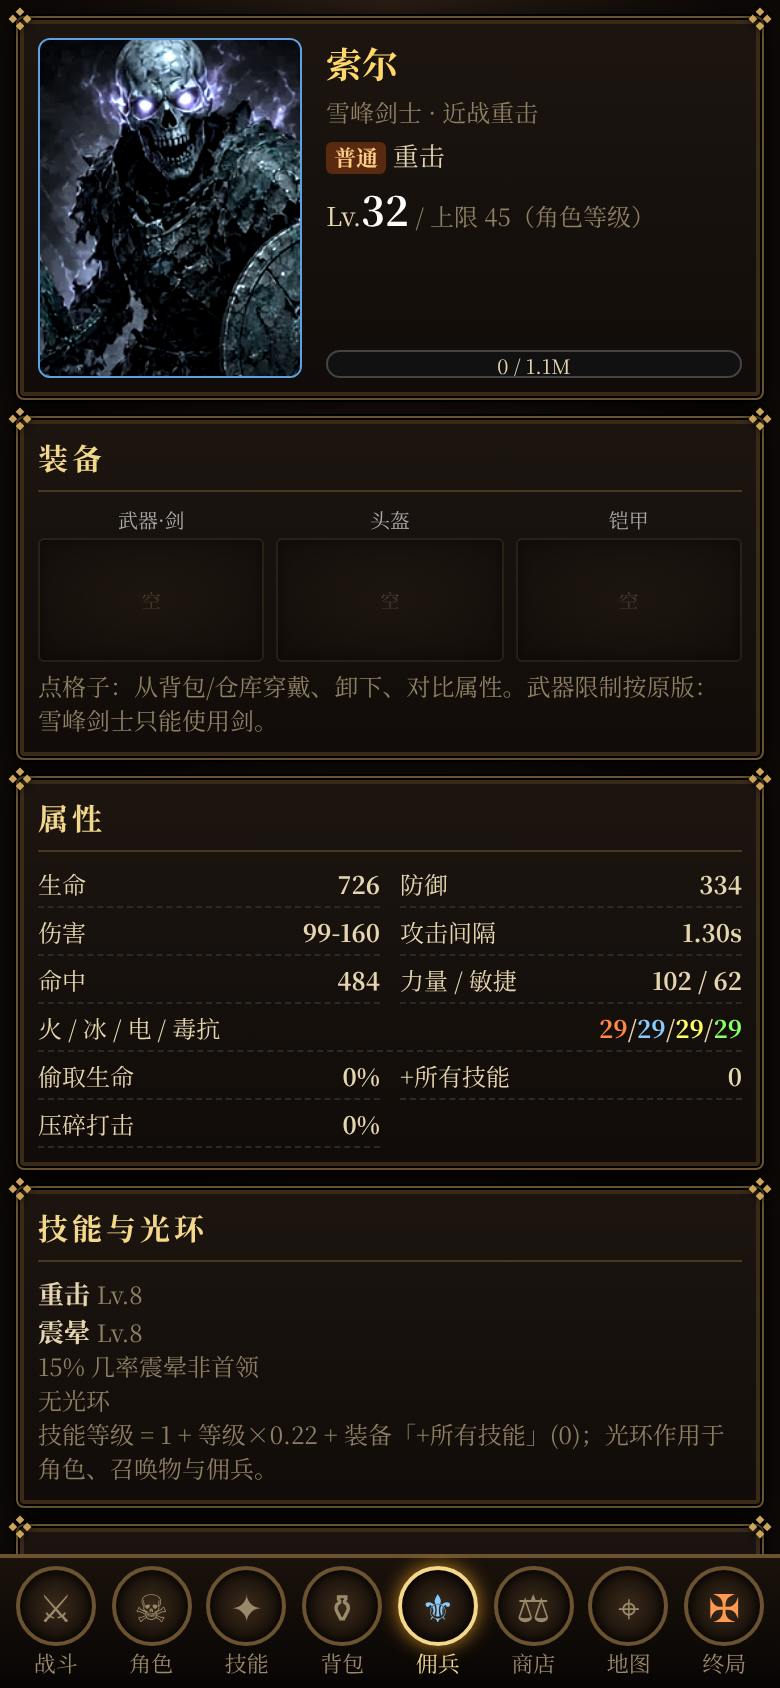
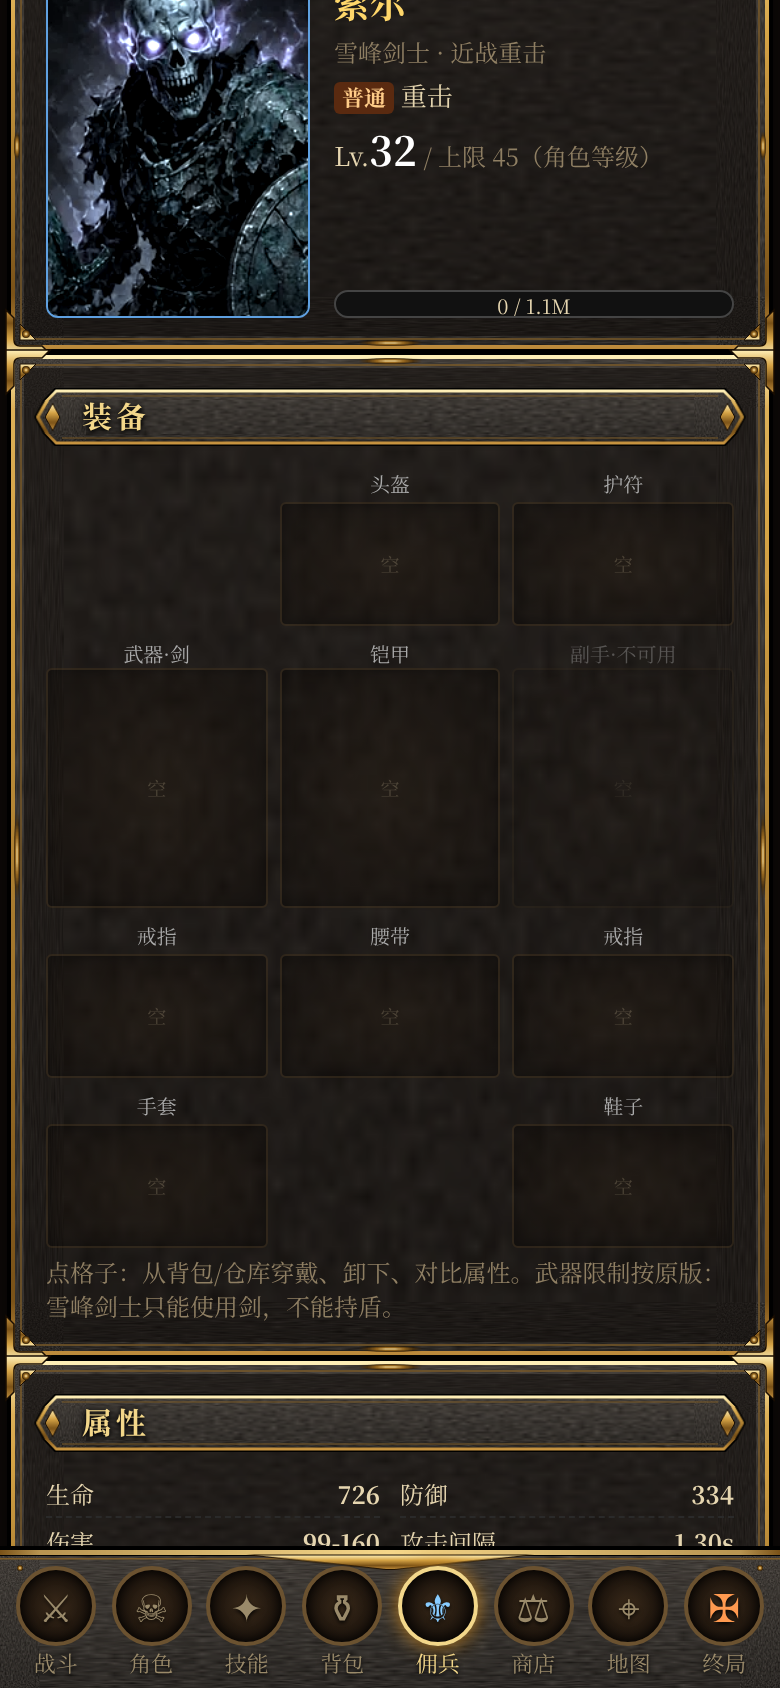
group+merc2: 战斗同种召唤物/怪物小兵合并头像(×N角标、组总血量、特效飘字跟随)；佣兵全身纸娃娃10格(副手按类型限制/戒指双格/套装/盾牌符文之语光环/自动换装/v1存档迁移)

diff --git a/merc.js b/merc.js
@@ -5,8 +5,11 @@
 // 存档：全部字段在 S.merc 下：{_v,t,v,nm,lvl,xp,hd,eq:{weapon,helm,armor},dead,off,auto,ar,prev,hires}
 //   off=1 表示已解雇（S.merc 保持非 null，避免 acts.js migrate 自动重新赠送）；prev=上一位被解雇佣兵(可召回)。
 // ===================================================================================
-const MERC_V=1,MX={slot:null,auT:0,conv:0,auras:[],flt:'all'};
-const MERC_SLOTS=['weapon','helm','armor'];
+const MERC_V=2,MX={slot:null,auT:0,conv:0,auras:[],flt:'all'};
+const MERC_SLOTS=['weapon','shield','helm','armor','gloves','belt','boots','amulet','ring1','ring2'];
+// 副手：原版仅铁狼(单手剑+盾)可持盾；弓/长柄/矛为双手，剑士不持盾。缩颅(head)为角色职业物品，不可用
+const MERC_SHIELD={mage:1};
+const mslotBase=k=>k==='ring1'||k==='ring2'?'ring':k;
 // 原版武器类型限制：罗格=弓；沙漠卫兵=长柄/矛；铁狼=单手剑(+盾，本游戏佣兵无副手)；野蛮人=剑
 const MERC_WCATS={archer:['bow'],guard:['polearm','spear'],mage:['sword'],barb:['sword']};
 // 原版 1.10 雇佣等级（按营地章节 × 难度）；实际等级不超过角色
@@ -59,7 +62,9 @@ function mercNorm(){if(typeof S==='undefined'||!S)return;const m=S.merc;if(!m||m
  if(!mercVarDef(m.t,m.v)||!mercVars(m.t,m.hd)[m.v]){const vs=mercVars(m.t,m.hd);m.v=vs[m.v]?m.v:(vs[MERCS[m.t].vd]?MERCS[m.t].vd:Object.keys(vs)[0])}
  m._v=MERC_V;for(const k of MERC_SLOTS){const it=m.eq[k];if(it&&!mercFits(it,k,m.t)){S.bag.push(it);delete m.eq[k];log&&log(`佣兵无法使用 ${itemName(it)}（类型限制），已放回背包`)}}
  for(const k in m.eq)if(!MERC_SLOTS.includes(k))delete m.eq[k]}
-function mercFits(it,k,t){if(!it||it.k)return false;const b=BASEM[it.b];if(!b||b.s!==k)return false;if(k==='weapon')return(MERC_WCATS[t]||[]).includes(b.cat);return true}
+function mercFits(it,k,t,eq){if(!it||it.k)return false;const b=BASEM[it.b];if(!b||b.s!==mslotBase(k))return false;if(k==='weapon')return(MERC_WCATS[t]||[]).includes(b.cat)&&!(b.th&&!MERC_WCATS[t].includes('sword')&&false);
+ if(k==='shield'){if(!MERC_SHIELD[t]||b.cat!=='shield')return false;const w=(eq||(S.merc&&S.merc.eq)||{}).weapon;return!(w&&BASEM[w.b]&&BASEM[w.b].th)}return true}
+function mercSlotFor(it,pref){const b=BASEM[it.b];if(b.s!=='ring')return b.s;if(pref==='ring1'||pref==='ring2')return pref;const e=S.merc.eq;return!e.ring1?'ring1':!e.ring2?'ring2':(power(e.ring1)<=power(e.ring2)?'ring1':'ring2')}
 const _mx_load=load;load=function(){_mx_load();mercNorm()};
 
 // ---------- 属性 ----------
@@ -121,14 +126,19 @@ const _mx_kill=killMon;killMon=function(m){const r=_mx_kill(m);if(mercUp()&&!S.m
 const _mx_gx=gainXp;gainXp=function(x){const l0=S.lvl;_mx_gx(x);if(S.lvl>l0&&mercUp())mercGainXp(0.0001)};
 
 // ---------- 装备 ----------
-canMercEquip=function(it){if(!mercUp()||!it||it.k)return false;const b=BASEM[it.b];if(!b||!MERC_SLOTS.includes(b.s)||!mercFits(it,b.s,S.merc.t))return false;const r=itemReq(it),ms=mercStats();return ms.L>=r.lv&&ms.str>=r.str&&ms.dex>=r.dex};
-function mercWhyNot(it){const b=BASEM[it.b];if(!mercFits(it,b.s,S.merc.t))return'类型不符';const r=itemReq(it),ms=mercStats();const w=[];if(ms.L<r.lv)w.push('需等级'+r.lv);if(ms.str<r.str)w.push('需力量'+r.str);if(ms.dex<r.dex)w.push('需敏捷'+r.dex);return w.join(' ')}
-mercEquip=function(uid){let f=findItem(uid);if(!f||f.slot||!canMercEquip(f.it))return false;const k=BASEM[f.it.b].s,cur=S.merc.eq[k];
+canMercEquip=function(it,k){if(!mercUp()||!it||it.k)return false;const b=BASEM[it.b];if(!b)return false;k=k||mercSlotFor(it);if(!MERC_SLOTS.includes(k)||!mercFits(it,k,S.merc.t))return false;const r=itemReq(it),ms=mercStats();return ms.L>=r.lv&&ms.str>=r.str&&ms.dex>=r.dex};
+function mercWhyNot(it,k){if(!mercFits(it,k||mercSlotFor(it),S.merc.t))return BASEM[it.b].s==='shield'?'双手武器/类型不能持盾':'类型不符';const r=itemReq(it),ms=mercStats();const w=[];if(ms.L<r.lv)w.push('需等级'+r.lv);if(ms.str<r.str)w.push('需力量'+r.str);if(ms.dex<r.dex)w.push('需敏捷'+r.dex);return w.join(' ')}
+mercEquip=function(uid,slot){let f=findItem(uid);if(!f||f.slot)return false;const k=mercSlotFor(f.it,slot||MX.slot);if(!canMercEquip(f.it,k))return false;const cur=S.merc.eq[k];
  const obj=f.it;if(f.stash){if(typeof withdrawUid!=='function'||withdrawUid(uid,1)===false)return false}
- const bi=S.bag.indexOf(obj);if(bi<0)return false;const it=S.bag.splice(bi,1)[0];if(cur)S.bag.push(cur);S.merc.eq[k]=it;calc();log(`佣兵装备：<span style="color:${itemColor(it)}">${itemName(it)}</span>`);if(!window.__NOUI){closeM();render()}return true};
+ const bi=S.bag.indexOf(obj);if(bi<0)return false;const it=S.bag.splice(bi,1)[0];if(cur)S.bag.push(cur);S.merc.eq[k]=it;
+ if(k==='weapon'&&BASEM[it.b].th&&S.merc.eq.shield){S.bag.push(S.merc.eq.shield);delete S.merc.eq.shield}
+ calc();log(`佣兵装备：<span style="color:${itemColor(it)}">${itemName(it)}</span>`);if(!window.__NOUI){closeM();render()}return true};
 mercUnequip=function(k){if(!S.merc||!S.merc.eq[k])return false;if(bagFull()){toast('背包已满');return false}S.bag.push(S.merc.eq[k]);delete S.merc.eq[k];calc();if(!window.__NOUI){closeM();render()}return true};
-mercAutoEq=function(){if(!mercUp()||!S.autoEq||!S.merc.auto)return;for(const it of S.bag.slice()){if(it.k||!canMercEquip(it))continue;const k=BASEM[it.b].s,c=S.merc.eq[k];
- if(!c||power(it)>power(c)){S.bag.splice(S.bag.indexOf(it),1);if(c)S.bag.push(c);S.merc.eq[k]=it;calc();log(`佣兵换装：<span style="color:${itemColor(it)}">${itemName(it)}</span>`)}}};
+mercAutoEq=function(){if(!mercUp()||!S.autoEq||!S.merc.auto)return;for(const it of S.bag.slice()){if(it.k)continue;const b=BASEM[it.b];if(!b)continue;
+ const ks=b.s==='ring'?['ring1','ring2']:[b.s];for(const k of ks){if(!canMercEquip(it,k))continue;const c=S.merc.eq[k];
+  if(!c||power(it)>power(c)){S.bag.splice(S.bag.indexOf(it),1);if(c)S.bag.push(c);S.merc.eq[k]=it;calc();log(`佣兵换装：<span style="color:${itemColor(it)}">${itemName(it)}</span>`);break}}}};
+// items2.js 的命中特效(压碎/撕裂/偷取等)只统计了 3 格，扩展到全身
+if(typeof attackerMods==='function'){const _mx_am=attackerMods;attackerMods=function(src){if(src&&src.kind==='merc'&&S.merc&&S.merc.eq){const M={};for(const k of MERC_SLOTS){const it=S.merc.eq[k];if(!it)continue;const m=allMods(it);for(const x in m)if(typeof m[x]==='number')M[x]=(M[x]||0)+m[x]}return M}return _mx_am(src)}}
 
 // ---------- 战斗 ----------
 const ELC={fire:'#f84',cold:'#8cf',light:'#ff6',pois:'#8f6'};
@@ -166,8 +176,8 @@ function renderMercPage(){mercNorm();const P=$('#panel');const m=S.merc;let h='<
  if(mercUp()){const ms=mercStats(),T=MERCS[m.t],V=mercVarDef(m.t,m.v),need0=mercXpNeed(m.lvl),need1=mercXpNeed(m.lvl+1);const pct=m.lvl>=S.lvl?100:Math.max(0,Math.min(100,(m.xp-need0)/Math.max(1,need1-need0)*100));
   h+=`<div class="gp mhead">${mercPortrait(m.t,m.v,1)}<div class="minfo"><div class="mname">${m.nm}${m.dead?' <span class="bad">阵亡</span>':''}</div><div class="dim">${T.n} · ${T.kind}</div><div class="mver"><b class="diff d${m.hd}">${DIFFS[m.hd].n}</b> ${V.n}</div>
    <div class="mlv">Lv.<b>${m.lvl}</b> <small class="dim">/ 上限 ${S.lvl}（角色等级）</small></div><div class="mxp"><i style="width:${pct.toFixed(1)}%"></i><span>${m.lvl>=S.lvl?'已达角色等级':fmt(m.xp-need0)+' / '+fmt(need1-need0)}</span></div></div></div>`;
-  h+=`<div class="gp"><h3>装备</h3><div class="mdoll">${MERC_SLOTS.map(k=>{const it=m.eq[k];return`<div class="mslot" onclick="mercSlotUI('${k}')"><small>${SLOTN[k]}${k==='weapon'?'·'+MERC_WCATS[m.t].map(c=>CATN?CATN[c]:c).join('/'):''}</small>${it?cell(it,''):`<div class="cell empty"><small>空</small></div>`}</div>`}).join('')}</div>
-   ${Object.keys(ms.sets).length?`<div class="dim">套装：${Object.entries(ms.sets).map(([s,n])=>SETS[s].n+' '+n+'件').join('、')}</div>`:''}<div class="dim">点格子：从背包/仓库穿戴、卸下、对比属性。武器限制按原版：${T.n}只能使用${MERC_WCATS[m.t].map(c=>CATN[c]).join('/')}。</div></div>`;
+  h+=`<div class="gp"><h3>装备</h3><div class="mdoll">${MERC_SLOTS.map(k=>{const it=m.eq[k];return`<div class="mslot ms_${k} ${k==='shield'&&!MERC_SHIELD[m.t]?'lock':''}" onclick="mercSlotUI('${k}')"><small>${SLOTN[k]}${k==='shield'&&!MERC_SHIELD[m.t]?'·不可用':''}${k==='weapon'?'·'+MERC_WCATS[m.t].map(c=>CATN?CATN[c]:c).join('/'):''}</small>${it?cell(it,''):`<div class="cell empty"><small>空</small></div>`}</div>`}).join('')}</div>
+   ${Object.keys(ms.sets).length?`<div class="dim">套装：${Object.entries(ms.sets).map(([s,n])=>SETS[s].n+' '+n+'件').join('、')}</div>`:''}<div class="dim">点格子：从背包/仓库穿戴、卸下、对比属性。武器限制按原版：${T.n}只能使用${MERC_WCATS[m.t].map(c=>CATN[c]).join('/')}${MERC_SHIELD[m.t]?'，可持盾(双手武器时不可)':'，不能持盾'}。</div></div>`;
   h+=`<div class="gp"><h3>属性</h3><div class="mstats">${mercStatsHTML(ms)}</div></div>`;
   h+=`<div class="gp"><h3>技能与光环</h3>${V.sk.map(s=>`<div class="msk"><b>${s}</b> <span class="dim">Lv.${ms.skl}</span></div>`).join('')}${V.d?`<div class="dim">${V.d}</div>`:''}
    ${ms.auras.length?ms.auras.map(a=>`<div class="maura"><b>✺ ${AURAS[a.id].n}</b> Lv.${a.lv} <small class="dim">来源：${a.src}</small><div>${AURAS[a.id].t(a.e)}</div></div>`).join(''):'<div class="dim">无光环</div>'}
@@ -179,7 +189,7 @@ function renderMercPage(){mercNorm();const P=$('#panel');const m=S.merc;let h='<
   const p=m&&m.off&&m.prev;if(p)h+=`<div class="mhire"><span>↺ 召回 <b>${p.nm}</b> ${MERCS[p.t].n}·${mercVarDef(p.t,p.v).n} Lv.${Math.min(p.lvl,S.lvl)}</span><button class="btn xs gold" onclick="mercRecall()">${fmt(mercHireCost(Math.min(p.lvl,S.lvl)))}◈</button></div>`;
   for(const t of mercAvail()){const T=MERCS[t],L=mercHireLv(t);h+=`<div class="mhire"><span>${T.ic} ${T.n} <span class="dim">Lv.${L} · ${ACTS[T.act].camp}</span></span><span class="btns">${Object.entries(mercVars(t,S.diff)).map(([v,V])=>`<button class="btn xs" onclick="hireMerc('${t}','${v}')">${V.n} ${fmt(mercHireCost(L))}◈</button>`).join('')}</span></div>`}h+='</div>'}
  P.innerHTML=h+'</div>'}
-function mercCands(k){const out=[];const add=(it,src)=>{if(!it||it.k)return;const b=BASEM[it.b];if(b&&b.s===k&&mercFits(it,k,S.merc.t))out.push({it,src})};
+function mercCands(k){const out=[];const add=(it,src)=>{if(!it||it.k)return;const b=BASEM[it.b];if(b&&b.s===mslotBase(k)&&(mercFits(it,k,S.merc.t)||(k==='shield'&&MERC_SHIELD[S.merc.t]&&b.cat==='shield')))out.push({it,src})};
  for(const it of S.bag)add(it,'背包');if(S.pst)S.pst.forEach((pg,i)=>pg.forEach(it=>add(it,'仓库'+(i+1))));if(typeof ACCT!=='undefined'&&ACCT&&ACCT.shared)ACCT.shared.forEach((pg,i)=>pg.forEach(it=>add(it,'共享'+(i+1))));for(const it of S.stash||[])add(it,'仓库');return out.sort((a,b)=>power(b.it)-power(a.it))}
 function mercDelta(k,it){const a=mercStats(),eq=Object.assign({},S.merc.eq);if(it)eq[k]=it;else delete eq[k];const b=mercStats(eq);
  const f=(n,x,y,u='')=>{const d=Math.round(y-x);return d?`<span class="${d>0?'g':'bad'}">${n}${d>0?'+':''}${d}${u}</span>`:''};
@@ -188,7 +198,7 @@ function mercDelta(k,it){const a=mercStats(),eq=Object.assign({},S.merc.eq);if(i
 function mercSlotUI(k){if(!mercUp())return;MX.slot=k;const cur=S.merc.eq[k],cs=mercCands(k);
  const desc=it=>`${it.rw!=null?`<div class="g">符文之语「${RUNEWORDS[it.rw].n}」${RW_AURA[RUNEWORDS[it.rw].n]?' · 光环 '+AURAS[RW_AURA[RUNEWORDS[it.rw].n][0]].n:''}</div>`:''}<div class="dim small">${modsTxt(allMods(it))}</div>`;
  modal(`<div class="mtitle">佣兵 · ${SLOTN[k]}</div><div class="gp mslotm">${cur?`<div class="mcur">${cell(cur,`showItem(${cur.uid})`)}<div><b style="color:${itemColor(cur)}">${itemName(cur)}</b>${desc(cur)}<div>${mercDelta(k,null)}</div><button class="btn sm" onclick="mercUnequip('${k}')">卸下到背包</button></div></div>`:'<div class="dim">未装备</div>'}
- <h4>可用物品（${cs.length}）</h4>${cs.length?cs.map(({it,src})=>{const why=canMercEquip(it)?'':mercWhyNot(it);return`<div class="mcand">${cell(it,`showItem(${it.uid})`)}<div><b style="color:${itemColor(it)}">${itemName(it)}</b> <small class="dim">[${src}]</small>${desc(it)}<div>${mercDelta(k,it)}</div>${why?`<span class="bad">${why}</span>`:`<button class="btn sm gold" onclick="mercEquip(${it.uid})">穿戴</button>`}</div></div>`}).join(''):'<div class="dim">背包和仓库中没有可用物品</div>'}
+ <h4>可用物品（${cs.length}）</h4>${cs.length?cs.map(({it,src})=>{const why=canMercEquip(it,k)?'':mercWhyNot(it,k);return`<div class="mcand">${cell(it,`showItem(${it.uid})`)}<div><b style="color:${itemColor(it)}">${itemName(it)}</b> <small class="dim">[${src}]</small>${desc(it)}<div>${mercDelta(k,it)}</div>${why?`<span class="bad">${why}</span>`:`<button class="btn sm gold" onclick="mercEquip(${it.uid},'${k}')">穿戴</button>`}</div></div>`}).join(''):'<div class="dim">背包和仓库中没有可用物品</div>'}
  <div class="btns c"><button class="btn" onclick="closeM()">关闭</button></div></div>`)}
 const _mx_render=render;render=function(){if(typeof TAB==='undefined'||TAB!=='merc')return _mx_render();
  document.querySelectorAll('#tabs button').forEach(b=>b.classList.toggle('on',b.dataset.t==='merc'));$('#fightv').classList.add('hide');$('#panel').classList.remove('hide');renderMercPage()};

diff --git a/index.html b/index.html
@@ -1,7 +1,7 @@
 <!DOCTYPE html>
 <html lang="zh-CN"><head><meta charset="UTF-8">
 <meta name="viewport" content="width=device-width,initial-scale=1,maximum-scale=1,user-scalable=no,viewport-fit=cover">
-<title>暗夜挂机 · 亡灵术士</title><link rel="stylesheet" href="style.css"><link rel="stylesheet" href="acts.css"><link rel="stylesheet" href="items.css"><link rel="stylesheet" href="stash.css"><link rel="stylesheet" href="shop.css"><link rel="stylesheet" href="skills.css"><link rel="stylesheet" href="endgame.css"><link rel="stylesheet" href="merc.css"><link rel="stylesheet" href="art.css"></head>
+<title>暗夜挂机 · 亡灵术士</title><link rel="stylesheet" href="style.css"><link rel="stylesheet" href="acts.css"><link rel="stylesheet" href="items.css"><link rel="stylesheet" href="stash.css"><link rel="stylesheet" href="shop.css"><link rel="stylesheet" href="skills.css"><link rel="stylesheet" href="endgame.css"><link rel="stylesheet" href="merc.css"><link rel="stylesheet" href="group.css"><link rel="stylesheet" href="art.css"></head>
 <body><div id="app">
 <section id="fightv">
  <div id="fbattle">
@@ -25,4 +25,4 @@
 <main id="panel" class="hide"></main>
 <nav id="tabs"><button data-t="fight"><i>⚔</i>战斗</button><button data-t="hero"><i>☠</i>角色</button><button data-t="skill"><i>✦</i>技能</button><button data-t="bag"><i>⚱</i>背包</button><button data-t="shop"><i>⚖</i>商店</button><button data-t="map"><i>⌖</i>地图</button></nav>
 <div id="modal" class="hide"></div><div id="toast"></div>
-</div><script src="data.js"></script><script src="data_items.js"></script><script src="data_items2.js"></script><script src="data_acts.js"></script><script src="game.js"></script><script src="items.js"></script><script src="acts.js"></script><script src="items2.js"></script><script src="stash.js"></script><script src="loot.js"></script><script src="shop.js"></script><script src="cloud.js"></script><script src="skills.js"></script><script src="data_endgame.js"></script><script src="eg_core.js"></script><script src="eg_bounty.js"></script><script src="eg_rift.js"></script><script src="eg_para.js"></script><script src="eg_power.js"></script><script src="eg_season.js"></script><script src="eg_secret.js"></script><script src="merc.js"></script><script src="art_map.js"></script><script src="eg_ach.js"></script><script src="eg_events.js"></script></body></html>
+</div><script src="data.js"></script><script src="data_items.js"></script><script src="data_items2.js"></script><script src="data_acts.js"></script><script src="game.js"></script><script src="items.js"></script><script src="acts.js"></script><script src="items2.js"></script><script src="stash.js"></script><script src="loot.js"></script><script src="shop.js"></script><script src="cloud.js"></script><script src="skills.js"></script><script src="data_endgame.js"></script><script src="eg_core.js"></script><script src="eg_bounty.js"></script><script src="eg_rift.js"></script><script src="eg_para.js"></script><script src="eg_power.js"></script><script src="eg_season.js"></script><script src="eg_secret.js"></script><script src="merc.js"></script><script src="group.js"></script><script src="art_map.js"></script><script src="eg_ach.js"></script><script src="eg_events.js"></script></body></html>

diff --git a/group.js b/group.js
@@ -1,0 +1,18 @@
+'use strict';
+// ===================================================================================
+// group.js — 战斗画面同种单位合并显示：召唤物(骨仆/骨巫/复生/魔像…)与怪物小兵，每种一个头像 + 右上角「×N」+ 组总血量。
+// 运行时包装 renderFight（在其输出 DOM 上合并）与 rectOf（被合并成员的特效/飘字定位到组头像）。不修改他人源文件。
+// ===================================================================================
+const GRP={alias:{},n:0};
+// 分组键：返回 null 表示不参与合并
+function grpAllyKey(a){if(a.kind==='merc'||a.hp<=0)return null;return[a.kind,a.sub||'',a.a||'',a.n||''].join('|')}
+function grpMonKey(m){if(m.hp<=0||m.boss||m.fl==='uniq'||m.qb)return null;return[m.key||'',m.fl||'',m.n||'',m.lv].join('|')}
+function grpApply(list,idp,keyf){const groups=new Map();for(const o of list){const k=keyf(o);if(k==null)continue;if(!groups.has(k))groups.set(k,[]);groups.get(k).push(o)}
+ for(const arr of groups.values()){if(arr.length<2)continue;const rep=arr.find(o=>document.getElementById(idp+o.uid));if(!rep)continue;const el=document.getElementById(idp+rep.uid);
+  let hp=0,mx=0,hit=0;for(const o of arr){hp+=Math.max(0,o.hp);mx+=o.max||0;if(o.hitT>0)hit=1;if(o===rep)continue;const e=document.getElementById(idp+o.uid);if(e)e.remove();GRP.alias[idp+o.uid]=idp+rep.uid}
+  const b=el.querySelector('.bar');if(b){const cls=[...b.classList].filter(c=>c!=='bar').join(' ');b.outerHTML=bar(hp,mx,cls)}
+  el.classList.add('grp');if(hit)el.classList.add('hit');el.dataset.n=arr.length;el.insertAdjacentHTML('beforeend',`<em class="gcnt">×${arr.length}</em>`)}}
+const _grp_rf=renderFight;renderFight=function(){_grp_rf();if(typeof document==='undefined'||window.__NOUI)return;
+ if(++GRP.n>400){GRP.n=0;GRP.alias={}}
+ try{grpApply(ALLY,'ca',grpAllyKey);grpApply(MON,'c',grpMonKey)}catch(e){console.warn('group.js',e)}};
+const _grp_rect=rectOf;rectOf=function(id){const r=_grp_rect(id);if(r||!GRP.alias[id])return r;return _grp_rect(GRP.alias[id])};

diff --git a/merc.css b/merc.css
@@ -40,3 +40,9 @@
 .ac.merc .pt .mport{border-radius:4px}
 .mau{color:#ffd76a;font-style:normal;margin-right:2px}
 .mrow.wide{grid-column:1/-1}
+/* 纸娃娃（与角色装备页同构） */
+.mdoll{grid-template-columns:repeat(3,1fr);grid-template-areas:". helm amulet" "weapon armor shield" "weapon armor shield" "ring1 belt ring2" "gloves . boots";gap:6px}
+.mdoll .ms_weapon{grid-area:weapon}.mdoll .ms_shield{grid-area:shield}.mdoll .ms_helm{grid-area:helm}.mdoll .ms_armor{grid-area:armor}
+.mdoll .ms_gloves{grid-area:gloves}.mdoll .ms_belt{grid-area:belt}.mdoll .ms_boots{grid-area:boots}.mdoll .ms_amulet{grid-area:amulet}.mdoll .ms_ring1{grid-area:ring1}.mdoll .ms_ring2{grid-area:ring2}
+.mdoll .ms_weapon .cell,.mdoll .ms_armor .cell,.mdoll .ms_shield .cell{height:100%;min-height:118px}
+.mdoll .mslot.lock{opacity:.4}

diff --git a/group.css b/group.css
@@ -1,0 +1,5 @@
+/* group.css — 合并头像的数量角标 */
+#arow .grp,#mgrid .grp{position:relative}
+.grp .gcnt{position:absolute;top:2px;right:3px;z-index:5;font-style:normal;font-weight:bold;font-size:12px;line-height:1;padding:2px 4px;border-radius:8px;
+ color:#ffe9a8;background:rgba(0,0,0,.75);border:1px solid #c9a24a;text-shadow:0 1px 2px #000;pointer-events:none}
+#mgrid .grp .gcnt{color:#ffb4a0;border-color:#b0503a}
